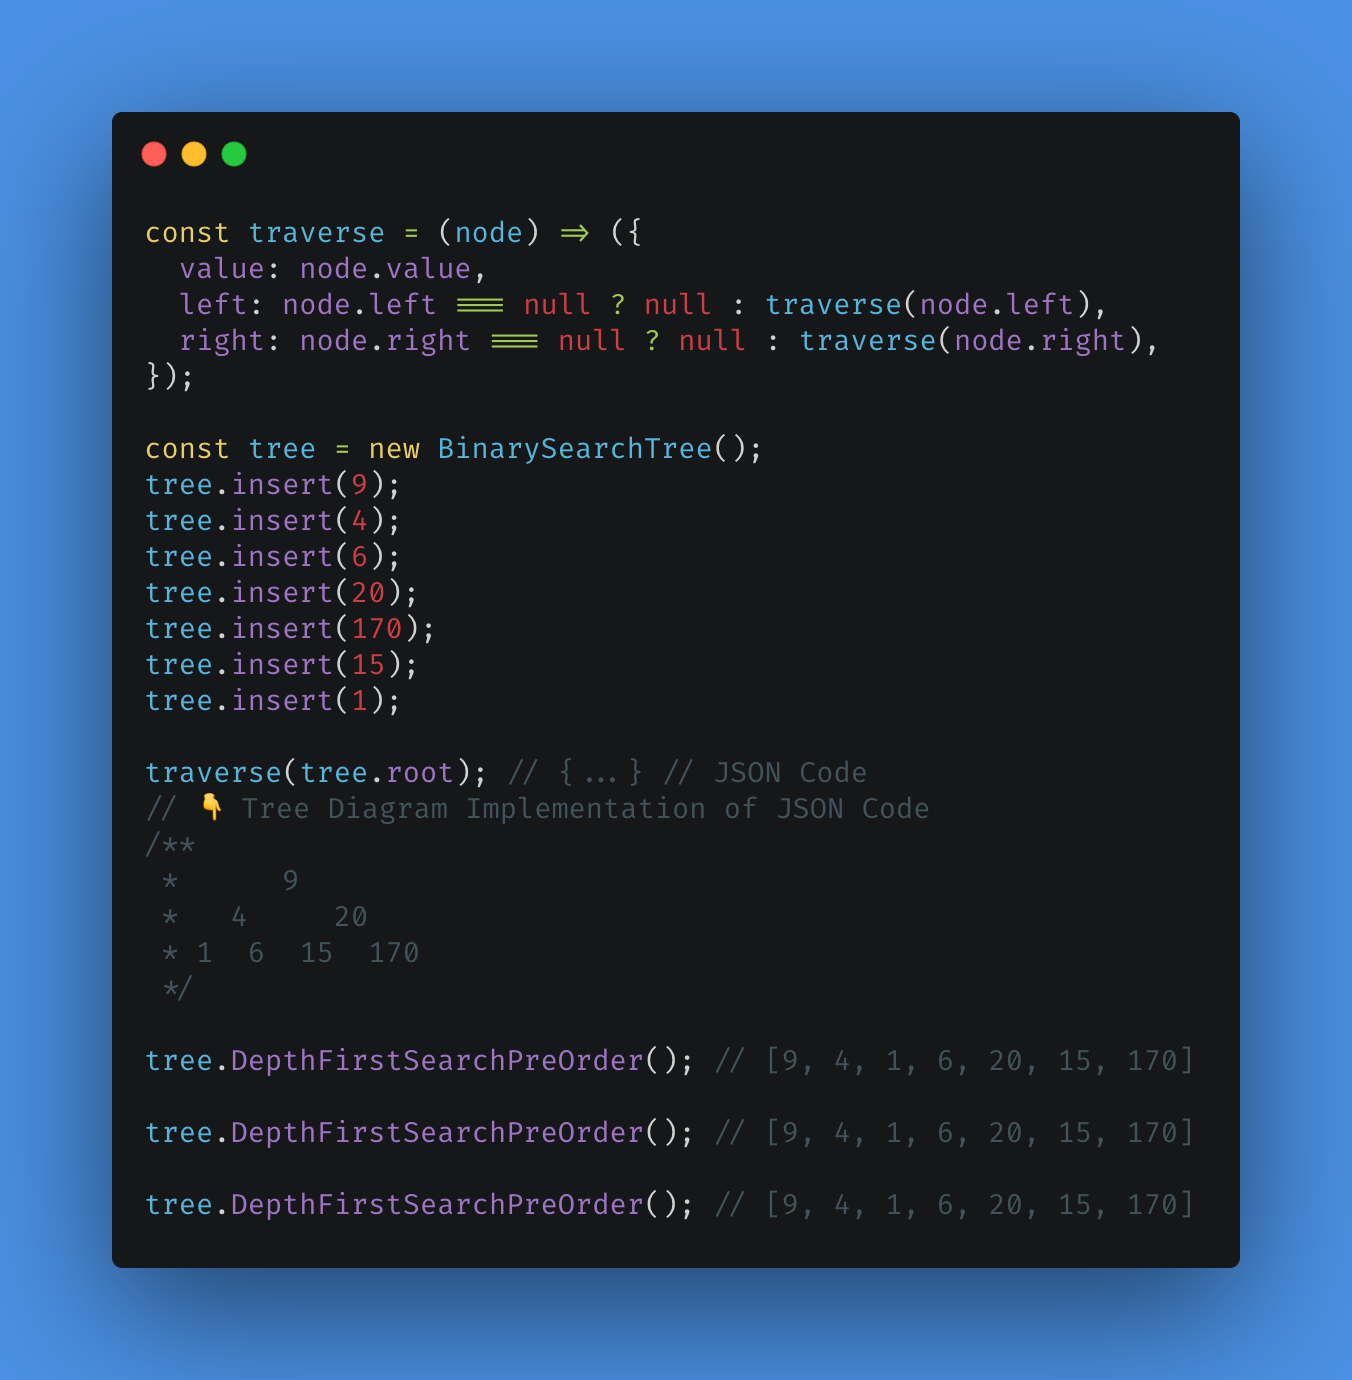
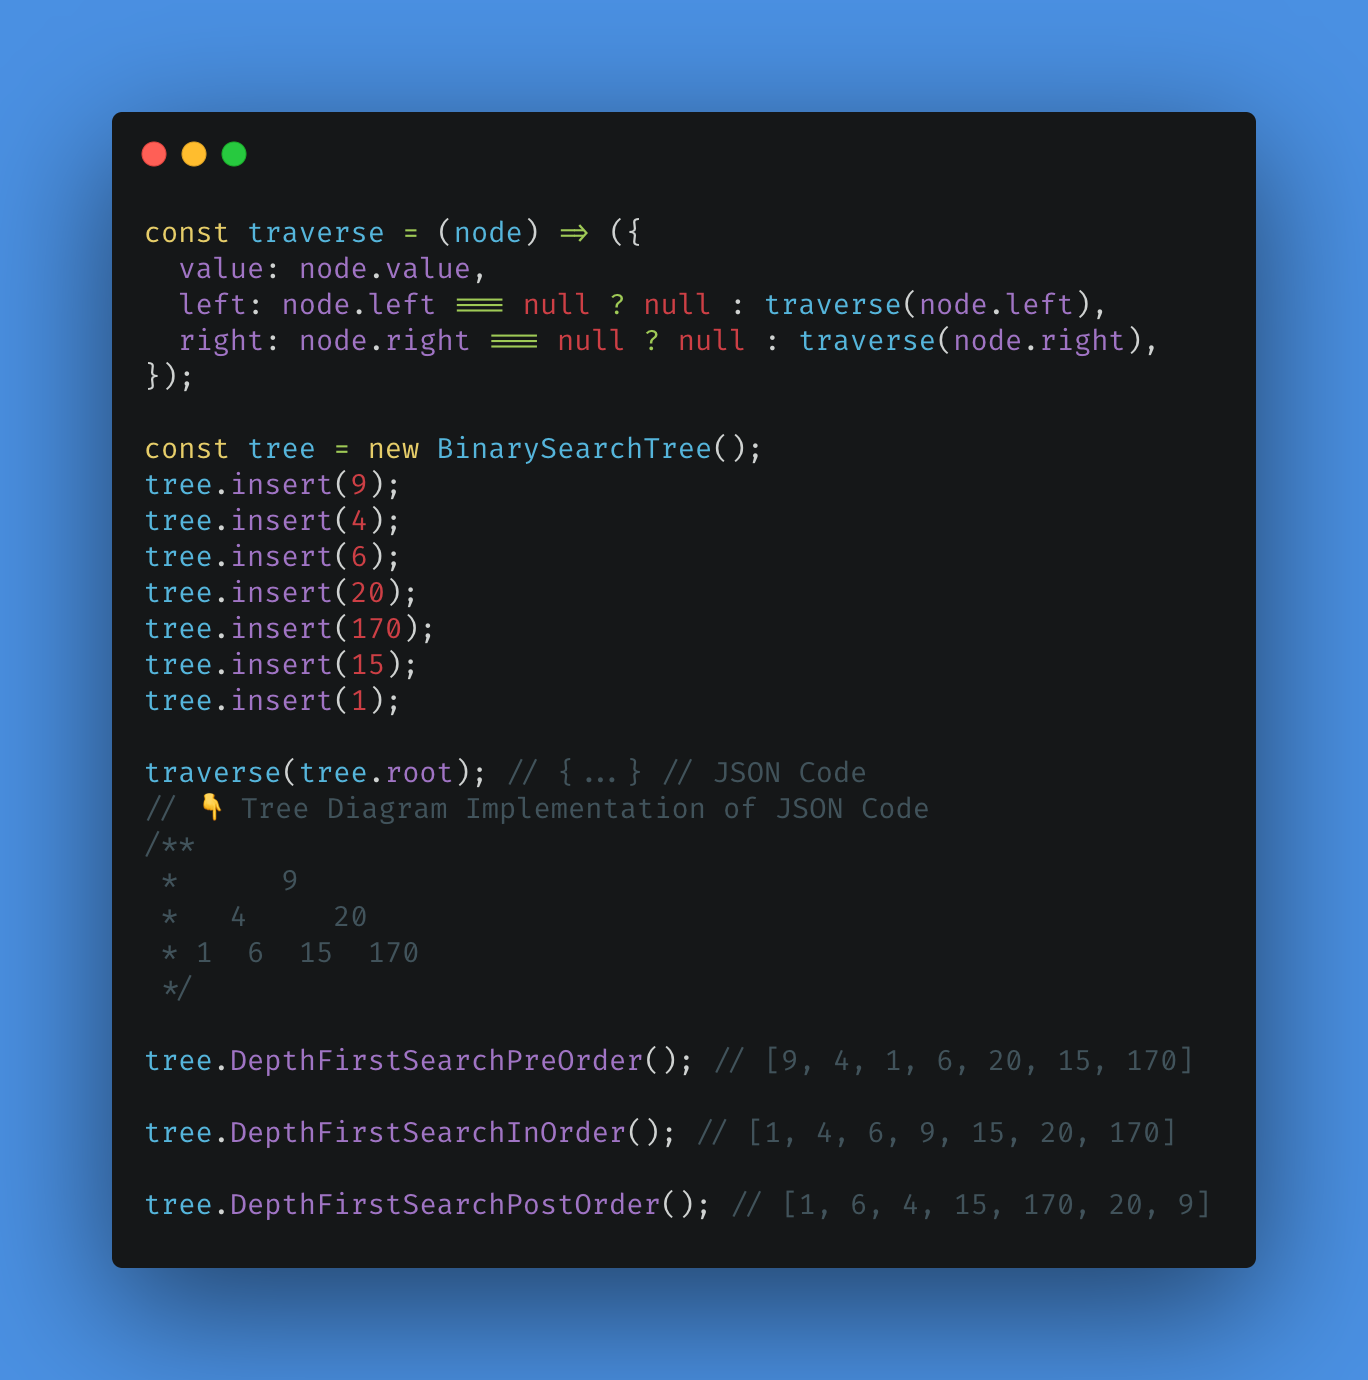
Fix depth first search solution

diff --git a/003-algorithms/003-searching/exercise/002-dfs/solution.js b/003-algorithms/003-searching/exercise/002-dfs/solution.js
@@ -190,11 +190,11 @@ console.log(
 ); // [9, 4, 1, 6, 20, 15, 170]
 
 console.log(
-  `tree.DepthFirstSearchPreOrder():`,
-  JSON.stringify(tree.DepthFirstSearchPreOrder(), null, 2),
-); // [9, 4, 1, 6, 20, 15, 170]
+  `tree.DepthFirstSearchInOrder():`,
+  JSON.stringify(tree.DepthFirstSearchInOrder(), null, 2),
+); // [1, 4, 6, 9, 15, 20, 170]
 
 console.log(
-  `tree.DepthFirstSearchPreOrder():`,
-  JSON.stringify(tree.DepthFirstSearchPreOrder(), null, 2),
-); // [9, 4, 1, 6, 20, 15, 170]
+  `tree.DepthFirstSearchPostOrder():`,
+  JSON.stringify(tree.DepthFirstSearchPostOrder(), null, 2),
+); // [1, 6, 4, 15, 170, 20, 9]

diff --git a/003-algorithms/003-searching/exercise/002-dfs/carbon/test.js b/003-algorithms/003-searching/exercise/002-dfs/carbon/test.js
@@ -23,6 +23,6 @@ traverse(tree.root); // {...} // JSON Code
 
 tree.DepthFirstSearchPreOrder(); // [9, 4, 1, 6, 20, 15, 170]
 
-tree.DepthFirstSearchPreOrder(); // [9, 4, 1, 6, 20, 15, 170]
+tree.DepthFirstSearchInOrder(); // [1, 4, 6, 9, 15, 20, 170]
 
-tree.DepthFirstSearchPreOrder(); // [9, 4, 1, 6, 20, 15, 170]
+tree.DepthFirstSearchPostOrder(); // [1, 6, 4, 15, 170, 20, 9]
